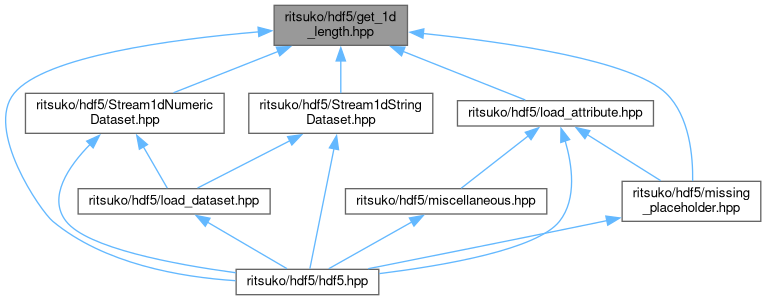
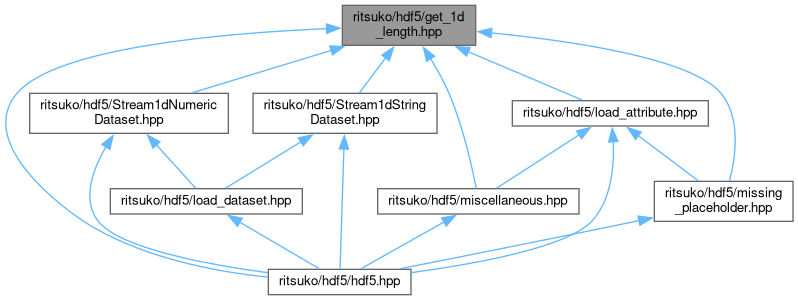
Deploying to gh-pages from @ ArtifactDB/ritsuko@3fe94009aa96d494673f2e40efb5e5fa2d311d32 🚀

diff --git a/docs/exceeds__limit_8hpp_source.html b/docs/exceeds__limit_8hpp_source.html
@@ -119,7 +119,7 @@ $(function() {
 <div class="line"><a id="l00073" name="l00073"></a><span class="lineno">   73</span>    <span class="keywordflow">return</span> <a class="code hl_function" href="namespaceritsuko_1_1hdf5.html#a6cd65a78811faa2894a672f5ce993949">exceeds_integer_limit</a>(handle.getIntType(), precision, is_signed);</div>
 <div class="line"><a id="l00074" name="l00074"></a><span class="lineno">   74</span>}</div>
 <div class="line"><a id="l00075" name="l00075"></a><span class="lineno">   75</span> </div>
-<div class="line"><a id="l00079" name="l00079"></a><span class="lineno">   79</span><span class="keyword">inline</span> <span class="keywordtype">bool</span> exceeds_float_limit_by_integer(<span class="keyword">const</span> H5::IntType itype, <span class="keywordtype">size_t</span> precision) {</div>
+<div class="line"><a id="l00079" name="l00079"></a><span class="lineno">   79</span><span class="keyword">inline</span> <span class="keywordtype">bool</span> exceeds_float_limit_by_integer(<span class="keyword">const</span> H5::IntType&amp; itype, <span class="keywordtype">size_t</span> precision) {</div>
 <div class="line"><a id="l00080" name="l00080"></a><span class="lineno">   80</span>    <span class="keywordflow">if</span> (precision &gt;= 64) {</div>
 <div class="line"><a id="l00081" name="l00081"></a><span class="lineno">   81</span>        <span class="keywordflow">return</span> <a class="code hl_function" href="namespaceritsuko_1_1hdf5.html#a6cd65a78811faa2894a672f5ce993949">exceeds_integer_limit</a>(itype, 52, <span class="keyword">true</span>);</div>
 <div class="line"><a id="l00082" name="l00082"></a><span class="lineno">   82</span>    } <span class="keywordflow">else</span> <span class="keywordflow">if</span> (precision &gt;= 32) {</div>
@@ -128,36 +128,54 @@ $(function() {
 <div class="line"><a id="l00085" name="l00085"></a><span class="lineno">   85</span>        <span class="keywordflow">return</span> <span class="keyword">true</span>;</div>
 <div class="line"><a id="l00086" name="l00086"></a><span class="lineno">   86</span>    }</div>
 <div class="line"><a id="l00087" name="l00087"></a><span class="lineno">   87</span>}</div>
-<div class="line"><a id="l00102" name="l00102"></a><span class="lineno"><a class="line" href="namespaceritsuko_1_1hdf5.html#acaeb27fa68cb7564cfdec29e4b6d6789">  102</a></span><span class="keyword">inline</span> <span class="keywordtype">bool</span> <a class="code hl_function" href="namespaceritsuko_1_1hdf5.html#acaeb27fa68cb7564cfdec29e4b6d6789">exceeds_float_limit</a>(<span class="keyword">const</span> H5::DataSet&amp; handle, <span class="keywordtype">size_t</span> precision) {</div>
-<div class="line"><a id="l00103" name="l00103"></a><span class="lineno">  103</span>    <span class="keyword">auto</span> tclass = handle.getTypeClass();</div>
-<div class="line"><a id="l00104" name="l00104"></a><span class="lineno">  104</span>    <span class="keywordflow">if</span> (tclass == H5T_INTEGER) {</div>
-<div class="line"><a id="l00105" name="l00105"></a><span class="lineno">  105</span>        <span class="keywordflow">return</span> exceeds_float_limit_by_integer(H5::IntType(handle), precision);</div>
-<div class="line"><a id="l00106" name="l00106"></a><span class="lineno">  106</span>    } <span class="keywordflow">else</span> <span class="keywordflow">if</span> (tclass == H5T_FLOAT) {</div>
-<div class="line"><a id="l00107" name="l00107"></a><span class="lineno">  107</span>        H5::FloatType ftype(handle);</div>
-<div class="line"><a id="l00108" name="l00108"></a><span class="lineno">  108</span>        <span class="keywordflow">return</span> ftype.getPrecision() &gt; precision;</div>
-<div class="line"><a id="l00109" name="l00109"></a><span class="lineno">  109</span>    } <span class="keywordflow">else</span> {</div>
-<div class="line"><a id="l00110" name="l00110"></a><span class="lineno">  110</span>        <span class="keywordflow">return</span> <span class="keyword">true</span>;</div>
-<div class="line"><a id="l00111" name="l00111"></a><span class="lineno">  111</span>    }</div>
-<div class="line"><a id="l00112" name="l00112"></a><span class="lineno">  112</span>}</div>
-<div class="line"><a id="l00113" name="l00113"></a><span class="lineno">  113</span> </div>
-<div class="line"><a id="l00122" name="l00122"></a><span class="lineno"><a class="line" href="namespaceritsuko_1_1hdf5.html#a81ca0022b59f5b2922d9899af3f3ec07">  122</a></span><span class="keyword">inline</span> <span class="keywordtype">bool</span> <a class="code hl_function" href="namespaceritsuko_1_1hdf5.html#acaeb27fa68cb7564cfdec29e4b6d6789">exceeds_float_limit</a>(<span class="keyword">const</span> H5::Attribute&amp; handle, <span class="keywordtype">size_t</span> precision) {</div>
-<div class="line"><a id="l00123" name="l00123"></a><span class="lineno">  123</span>    <span class="keyword">auto</span> tclass = handle.getTypeClass();</div>
-<div class="line"><a id="l00124" name="l00124"></a><span class="lineno">  124</span>    <span class="keywordflow">if</span> (tclass == H5T_INTEGER) {</div>
-<div class="line"><a id="l00125" name="l00125"></a><span class="lineno">  125</span>        <span class="keywordflow">return</span> exceeds_float_limit_by_integer(handle.getIntType(), precision);</div>
-<div class="line"><a id="l00126" name="l00126"></a><span class="lineno">  126</span>    } <span class="keywordflow">else</span> <span class="keywordflow">if</span> (tclass == H5T_FLOAT) {</div>
-<div class="line"><a id="l00127" name="l00127"></a><span class="lineno">  127</span>        <span class="keywordflow">return</span> handle.getFloatType().getPrecision() &gt; precision;</div>
-<div class="line"><a id="l00128" name="l00128"></a><span class="lineno">  128</span>    } <span class="keywordflow">else</span> {</div>
-<div class="line"><a id="l00129" name="l00129"></a><span class="lineno">  129</span>        <span class="keywordflow">return</span> <span class="keyword">true</span>;</div>
-<div class="line"><a id="l00130" name="l00130"></a><span class="lineno">  130</span>    }</div>
-<div class="line"><a id="l00131" name="l00131"></a><span class="lineno">  131</span>}</div>
-<div class="line"><a id="l00132" name="l00132"></a><span class="lineno">  132</span> </div>
-<div class="line"><a id="l00133" name="l00133"></a><span class="lineno">  133</span>}</div>
-<div class="line"><a id="l00134" name="l00134"></a><span class="lineno">  134</span> </div>
-<div class="line"><a id="l00135" name="l00135"></a><span class="lineno">  135</span>}</div>
-<div class="line"><a id="l00136" name="l00136"></a><span class="lineno">  136</span> </div>
-<div class="line"><a id="l00137" name="l00137"></a><span class="lineno">  137</span><span class="preprocessor">#endif</span></div>
+<div class="line"><a id="l00088" name="l00088"></a><span class="lineno">   88</span> </div>
+<div class="line"><a id="l00089" name="l00089"></a><span class="lineno">   89</span><span class="keyword">inline</span> <span class="keywordtype">bool</span> exceeds_float_limit_by_float(<span class="keyword">const</span> H5::FloatType&amp; ftype, <span class="keywordtype">size_t</span> precision) {</div>
+<div class="line"><a id="l00090" name="l00090"></a><span class="lineno">   90</span>    <span class="comment">// Only considering IEEE-compatible types here.</span></div>
+<div class="line"><a id="l00091" name="l00091"></a><span class="lineno">   91</span>    <span class="keywordflow">if</span> (precision &gt;= 64) {</div>
+<div class="line"><a id="l00092" name="l00092"></a><span class="lineno">   92</span>        <span class="keywordflow">return</span> !(</div>
+<div class="line"><a id="l00093" name="l00093"></a><span class="lineno">   93</span>            ftype == H5::PredType::IEEE_F64LE || </div>
+<div class="line"><a id="l00094" name="l00094"></a><span class="lineno">   94</span>            ftype == H5::PredType::IEEE_F64BE ||</div>
+<div class="line"><a id="l00095" name="l00095"></a><span class="lineno">   95</span>            ftype == H5::PredType::IEEE_F32LE || </div>
+<div class="line"><a id="l00096" name="l00096"></a><span class="lineno">   96</span>            ftype == H5::PredType::IEEE_F32BE</div>
+<div class="line"><a id="l00097" name="l00097"></a><span class="lineno">   97</span>        );</div>
+<div class="line"><a id="l00098" name="l00098"></a><span class="lineno">   98</span>    } <span class="keywordflow">else</span> <span class="keywordflow">if</span> (precision &gt;= 32) {</div>
+<div class="line"><a id="l00099" name="l00099"></a><span class="lineno">   99</span>        <span class="keywordflow">return</span> !(</div>
+<div class="line"><a id="l00100" name="l00100"></a><span class="lineno">  100</span>            ftype == H5::PredType::IEEE_F32LE || </div>
+<div class="line"><a id="l00101" name="l00101"></a><span class="lineno">  101</span>            ftype == H5::PredType::IEEE_F32BE</div>
+<div class="line"><a id="l00102" name="l00102"></a><span class="lineno">  102</span>        );</div>
+<div class="line"><a id="l00103" name="l00103"></a><span class="lineno">  103</span>    } <span class="keywordflow">else</span> {</div>
+<div class="line"><a id="l00104" name="l00104"></a><span class="lineno">  104</span>        <span class="keywordflow">return</span> <span class="keyword">true</span>;</div>
+<div class="line"><a id="l00105" name="l00105"></a><span class="lineno">  105</span>    }</div>
+<div class="line"><a id="l00106" name="l00106"></a><span class="lineno">  106</span>}</div>
+<div class="line"><a id="l00125" name="l00125"></a><span class="lineno"><a class="line" href="namespaceritsuko_1_1hdf5.html#acaeb27fa68cb7564cfdec29e4b6d6789">  125</a></span><span class="keyword">inline</span> <span class="keywordtype">bool</span> <a class="code hl_function" href="namespaceritsuko_1_1hdf5.html#acaeb27fa68cb7564cfdec29e4b6d6789">exceeds_float_limit</a>(<span class="keyword">const</span> H5::DataSet&amp; handle, <span class="keywordtype">size_t</span> precision) {</div>
+<div class="line"><a id="l00126" name="l00126"></a><span class="lineno">  126</span>    <span class="keyword">auto</span> tclass = handle.getTypeClass();</div>
+<div class="line"><a id="l00127" name="l00127"></a><span class="lineno">  127</span>    <span class="keywordflow">if</span> (tclass == H5T_INTEGER) {</div>
+<div class="line"><a id="l00128" name="l00128"></a><span class="lineno">  128</span>        <span class="keywordflow">return</span> exceeds_float_limit_by_integer(H5::IntType(handle), precision);</div>
+<div class="line"><a id="l00129" name="l00129"></a><span class="lineno">  129</span>    } <span class="keywordflow">else</span> <span class="keywordflow">if</span> (tclass == H5T_FLOAT) {</div>
+<div class="line"><a id="l00130" name="l00130"></a><span class="lineno">  130</span>        <span class="keywordflow">return</span> exceeds_float_limit_by_float(H5::FloatType(handle), precision);</div>
+<div class="line"><a id="l00131" name="l00131"></a><span class="lineno">  131</span>    } <span class="keywordflow">else</span> {</div>
+<div class="line"><a id="l00132" name="l00132"></a><span class="lineno">  132</span>        <span class="keywordflow">return</span> <span class="keyword">true</span>;</div>
+<div class="line"><a id="l00133" name="l00133"></a><span class="lineno">  133</span>    }</div>
+<div class="line"><a id="l00134" name="l00134"></a><span class="lineno">  134</span>}</div>
+<div class="line"><a id="l00135" name="l00135"></a><span class="lineno">  135</span> </div>
+<div class="line"><a id="l00145" name="l00145"></a><span class="lineno"><a class="line" href="namespaceritsuko_1_1hdf5.html#a81ca0022b59f5b2922d9899af3f3ec07">  145</a></span><span class="keyword">inline</span> <span class="keywordtype">bool</span> <a class="code hl_function" href="namespaceritsuko_1_1hdf5.html#acaeb27fa68cb7564cfdec29e4b6d6789">exceeds_float_limit</a>(<span class="keyword">const</span> H5::Attribute&amp; handle, <span class="keywordtype">size_t</span> precision) {</div>
+<div class="line"><a id="l00146" name="l00146"></a><span class="lineno">  146</span>    <span class="keyword">auto</span> tclass = handle.getTypeClass();</div>
+<div class="line"><a id="l00147" name="l00147"></a><span class="lineno">  147</span>    <span class="keywordflow">if</span> (tclass == H5T_INTEGER) {</div>
+<div class="line"><a id="l00148" name="l00148"></a><span class="lineno">  148</span>        <span class="keywordflow">return</span> exceeds_float_limit_by_integer(handle.getIntType(), precision);</div>
+<div class="line"><a id="l00149" name="l00149"></a><span class="lineno">  149</span>    } <span class="keywordflow">else</span> <span class="keywordflow">if</span> (tclass == H5T_FLOAT) {</div>
+<div class="line"><a id="l00150" name="l00150"></a><span class="lineno">  150</span>        <span class="keywordflow">return</span> exceeds_float_limit_by_float(handle.getFloatType(), precision);</div>
+<div class="line"><a id="l00151" name="l00151"></a><span class="lineno">  151</span>    } <span class="keywordflow">else</span> {</div>
+<div class="line"><a id="l00152" name="l00152"></a><span class="lineno">  152</span>        <span class="keywordflow">return</span> <span class="keyword">true</span>;</div>
+<div class="line"><a id="l00153" name="l00153"></a><span class="lineno">  153</span>    }</div>
+<div class="line"><a id="l00154" name="l00154"></a><span class="lineno">  154</span>}</div>
+<div class="line"><a id="l00155" name="l00155"></a><span class="lineno">  155</span> </div>
+<div class="line"><a id="l00156" name="l00156"></a><span class="lineno">  156</span>}</div>
+<div class="line"><a id="l00157" name="l00157"></a><span class="lineno">  157</span> </div>
+<div class="line"><a id="l00158" name="l00158"></a><span class="lineno">  158</span>}</div>
+<div class="line"><a id="l00159" name="l00159"></a><span class="lineno">  159</span> </div>
+<div class="line"><a id="l00160" name="l00160"></a><span class="lineno">  160</span><span class="preprocessor">#endif</span></div>
 <div class="ttc" id="anamespaceritsuko_1_1hdf5_html_a6cd65a78811faa2894a672f5ce993949"><div class="ttname"><a href="namespaceritsuko_1_1hdf5.html#a6cd65a78811faa2894a672f5ce993949">ritsuko::hdf5::exceeds_integer_limit</a></div><div class="ttdeci">bool exceeds_integer_limit(const H5::IntType &amp;itype, size_t precision, bool is_signed)</div><div class="ttdef"><b>Definition:</b> exceeds_limit.hpp:27</div></div>
-<div class="ttc" id="anamespaceritsuko_1_1hdf5_html_acaeb27fa68cb7564cfdec29e4b6d6789"><div class="ttname"><a href="namespaceritsuko_1_1hdf5.html#acaeb27fa68cb7564cfdec29e4b6d6789">ritsuko::hdf5::exceeds_float_limit</a></div><div class="ttdeci">bool exceeds_float_limit(const H5::DataSet &amp;handle, size_t precision)</div><div class="ttdef"><b>Definition:</b> exceeds_limit.hpp:102</div></div>
+<div class="ttc" id="anamespaceritsuko_1_1hdf5_html_acaeb27fa68cb7564cfdec29e4b6d6789"><div class="ttname"><a href="namespaceritsuko_1_1hdf5.html#acaeb27fa68cb7564cfdec29e4b6d6789">ritsuko::hdf5::exceeds_float_limit</a></div><div class="ttdeci">bool exceeds_float_limit(const H5::DataSet &amp;handle, size_t precision)</div><div class="ttdef"><b>Definition:</b> exceeds_limit.hpp:125</div></div>
 <div class="ttc" id="anamespaceritsuko_html"><div class="ttname"><a href="namespaceritsuko.html">ritsuko</a></div><div class="ttdoc">Assorted helper functions for parsing and validation.</div><div class="ttdef"><b>Definition:</b> choose_missing_placeholder.hpp:15</div></div>
 </div><!-- fragment --></div><!-- contents -->
 <!-- start footer part -->

diff --git a/docs/miscellaneous_8hpp_source.html b/docs/miscellaneous_8hpp_source.html
@@ -86,40 +86,45 @@ $(function() {
 <div class="line"><a id="l00006" name="l00006"></a><span class="lineno">    6</span> </div>
 <div class="line"><a id="l00007" name="l00007"></a><span class="lineno">    7</span><span class="preprocessor">#include &quot;<a class="code" href="open_8hpp.html">open.hpp</a>&quot;</span></div>
 <div class="line"><a id="l00008" name="l00008"></a><span class="lineno">    8</span><span class="preprocessor">#include &quot;<a class="code" href="load__attribute_8hpp.html">load_attribute.hpp</a>&quot;</span></div>
-<div class="line"><a id="l00009" name="l00009"></a><span class="lineno">    9</span> </div>
-<div class="line"><a id="l00015" name="l00015"></a><span class="lineno">   15</span><span class="keyword">namespace </span><a class="code hl_namespace" href="namespaceritsuko.html">ritsuko</a> {</div>
-<div class="line"><a id="l00016" name="l00016"></a><span class="lineno">   16</span> </div>
-<div class="line"><a id="l00017" name="l00017"></a><span class="lineno">   17</span><span class="keyword">namespace </span>hdf5 {</div>
+<div class="line"><a id="l00009" name="l00009"></a><span class="lineno">    9</span><span class="preprocessor">#include &quot;<a class="code" href="is__utf8__string_8hpp.html">is_utf8_string.hpp</a>&quot;</span></div>
+<div class="line"><a id="l00010" name="l00010"></a><span class="lineno">   10</span><span class="preprocessor">#include &quot;<a class="code" href="get__1d__length_8hpp.html">get_1d_length.hpp</a>&quot;</span></div>
+<div class="line"><a id="l00011" name="l00011"></a><span class="lineno">   11</span> </div>
+<div class="line"><a id="l00017" name="l00017"></a><span class="lineno">   17</span><span class="keyword">namespace </span><a class="code hl_namespace" href="namespaceritsuko.html">ritsuko</a> {</div>
 <div class="line"><a id="l00018" name="l00018"></a><span class="lineno">   18</span> </div>
-<div class="line"><a id="l00027" name="l00027"></a><span class="lineno">   27</span><span class="keyword">template</span>&lt;<span class="keyword">class</span> H5Object_&gt;</div>
-<div class="line"><a id="l00028" name="l00028"></a><span class="lineno"><a class="line" href="namespaceritsuko_1_1hdf5.html#a8cbc70f0b6aa640eb12e6663cdacd4fe">   28</a></span><span class="keyword">inline</span> H5::Attribute <a class="code hl_function" href="namespaceritsuko_1_1hdf5.html#a8cbc70f0b6aa640eb12e6663cdacd4fe">open_scalar_attribute</a>(<span class="keyword">const</span> H5Object_&amp; handle, <span class="keyword">const</span> <span class="keywordtype">char</span>* name) {</div>
-<div class="line"><a id="l00029" name="l00029"></a><span class="lineno">   29</span>    <span class="keyword">auto</span> attr = <a class="code hl_function" href="namespaceritsuko_1_1hdf5.html#a2562d2fa77b38f6ba2412f4ee3fce3b4">open_attribute</a>(handle, name);</div>
-<div class="line"><a id="l00030" name="l00030"></a><span class="lineno">   30</span>    <span class="keywordflow">if</span> (!<a class="code hl_function" href="namespaceritsuko_1_1hdf5.html#a5a84cbdad4bec1bd7d61f34a6a13db70">is_scalar</a>(attr)) {</div>
-<div class="line"><a id="l00031" name="l00031"></a><span class="lineno">   31</span>        <span class="keywordflow">throw</span> std::runtime_error(<span class="stringliteral">&quot;expected &#39;&quot;</span> + std::string(name) + <span class="stringliteral">&quot;&#39; attribute to be a scalar&quot;</span>);</div>
-<div class="line"><a id="l00032" name="l00032"></a><span class="lineno">   32</span>    }</div>
-<div class="line"><a id="l00033" name="l00033"></a><span class="lineno">   33</span>    <span class="keywordflow">return</span> attr;</div>
-<div class="line"><a id="l00034" name="l00034"></a><span class="lineno">   34</span>}</div>
-<div class="line"><a id="l00035" name="l00035"></a><span class="lineno">   35</span> </div>
-<div class="line"><a id="l00043" name="l00043"></a><span class="lineno">   43</span><span class="keyword">template</span>&lt;<span class="keyword">class</span> H5Object_&gt;</div>
-<div class="line"><a id="l00044" name="l00044"></a><span class="lineno"><a class="line" href="namespaceritsuko_1_1hdf5.html#afcb3d656e2411662328752690d008e87">   44</a></span>std::string <a class="code hl_function" href="namespaceritsuko_1_1hdf5.html#afcb3d656e2411662328752690d008e87">open_and_load_scalar_string_attribute</a>(<span class="keyword">const</span> H5Object_&amp; handle, <span class="keyword">const</span> <span class="keywordtype">char</span>* name) {</div>
-<div class="line"><a id="l00045" name="l00045"></a><span class="lineno">   45</span>    <span class="keyword">auto</span> attr = <a class="code hl_function" href="namespaceritsuko_1_1hdf5.html#a8cbc70f0b6aa640eb12e6663cdacd4fe">open_scalar_attribute</a>(handle, name);</div>
-<div class="line"><a id="l00046" name="l00046"></a><span class="lineno">   46</span>    <span class="keywordflow">if</span> (attr.getTypeClass() != H5T_STRING) {</div>
-<div class="line"><a id="l00047" name="l00047"></a><span class="lineno">   47</span>        <span class="keywordflow">throw</span> std::runtime_error(<span class="stringliteral">&quot;expected &#39;&quot;</span> + std::string(name) + <span class="stringliteral">&quot;&#39; attribute to be a string&quot;</span>);</div>
-<div class="line"><a id="l00048" name="l00048"></a><span class="lineno">   48</span>    }</div>
-<div class="line"><a id="l00049" name="l00049"></a><span class="lineno">   49</span>    <span class="keywordflow">return</span> <a class="code hl_function" href="namespaceritsuko_1_1hdf5.html#ae09b2aaf282ec0809b610528f4bf87b3">load_scalar_string_attribute</a>(attr);</div>
-<div class="line"><a id="l00050" name="l00050"></a><span class="lineno">   50</span>}</div>
-<div class="line"><a id="l00051" name="l00051"></a><span class="lineno">   51</span> </div>
+<div class="line"><a id="l00019" name="l00019"></a><span class="lineno">   19</span><span class="keyword">namespace </span>hdf5 {</div>
+<div class="line"><a id="l00020" name="l00020"></a><span class="lineno">   20</span> </div>
+<div class="line"><a id="l00029" name="l00029"></a><span class="lineno">   29</span><span class="keyword">template</span>&lt;<span class="keyword">class</span> H5Object_&gt;</div>
+<div class="line"><a id="l00030" name="l00030"></a><span class="lineno"><a class="line" href="namespaceritsuko_1_1hdf5.html#a8cbc70f0b6aa640eb12e6663cdacd4fe">   30</a></span><span class="keyword">inline</span> H5::Attribute <a class="code hl_function" href="namespaceritsuko_1_1hdf5.html#a8cbc70f0b6aa640eb12e6663cdacd4fe">open_scalar_attribute</a>(<span class="keyword">const</span> H5Object_&amp; handle, <span class="keyword">const</span> <span class="keywordtype">char</span>* name) {</div>
+<div class="line"><a id="l00031" name="l00031"></a><span class="lineno">   31</span>    <span class="keyword">auto</span> attr = <a class="code hl_function" href="namespaceritsuko_1_1hdf5.html#a2562d2fa77b38f6ba2412f4ee3fce3b4">open_attribute</a>(handle, name);</div>
+<div class="line"><a id="l00032" name="l00032"></a><span class="lineno">   32</span>    <span class="keywordflow">if</span> (!<a class="code hl_function" href="namespaceritsuko_1_1hdf5.html#a5a84cbdad4bec1bd7d61f34a6a13db70">is_scalar</a>(attr)) {</div>
+<div class="line"><a id="l00033" name="l00033"></a><span class="lineno">   33</span>        <span class="keywordflow">throw</span> std::runtime_error(<span class="stringliteral">&quot;expected &#39;&quot;</span> + std::string(name) + <span class="stringliteral">&quot;&#39; attribute to be a scalar&quot;</span>);</div>
+<div class="line"><a id="l00034" name="l00034"></a><span class="lineno">   34</span>    }</div>
+<div class="line"><a id="l00035" name="l00035"></a><span class="lineno">   35</span>    <span class="keywordflow">return</span> attr;</div>
+<div class="line"><a id="l00036" name="l00036"></a><span class="lineno">   36</span>}</div>
+<div class="line"><a id="l00037" name="l00037"></a><span class="lineno">   37</span> </div>
+<div class="line"><a id="l00045" name="l00045"></a><span class="lineno">   45</span><span class="keyword">template</span>&lt;<span class="keyword">class</span> H5Object_&gt;</div>
+<div class="line"><a id="l00046" name="l00046"></a><span class="lineno"><a class="line" href="namespaceritsuko_1_1hdf5.html#afcb3d656e2411662328752690d008e87">   46</a></span>std::string <a class="code hl_function" href="namespaceritsuko_1_1hdf5.html#afcb3d656e2411662328752690d008e87">open_and_load_scalar_string_attribute</a>(<span class="keyword">const</span> H5Object_&amp; handle, <span class="keyword">const</span> <span class="keywordtype">char</span>* name) {</div>
+<div class="line"><a id="l00047" name="l00047"></a><span class="lineno">   47</span>    <span class="keyword">auto</span> attr = <a class="code hl_function" href="namespaceritsuko_1_1hdf5.html#a8cbc70f0b6aa640eb12e6663cdacd4fe">open_scalar_attribute</a>(handle, name);</div>
+<div class="line"><a id="l00048" name="l00048"></a><span class="lineno">   48</span>    <span class="keywordflow">if</span> (!<a class="code hl_function" href="namespaceritsuko_1_1hdf5.html#a188b248f678ed8edd7564193e54fa44a">is_utf8_string</a>(attr)) {</div>
+<div class="line"><a id="l00049" name="l00049"></a><span class="lineno">   49</span>        <span class="keywordflow">throw</span> std::runtime_error(<span class="stringliteral">&quot;expected &#39;&quot;</span> + std::string(name) + <span class="stringliteral">&quot;&#39; attribute to be a string with a UTF-8 compatible encoding&quot;</span>);</div>
+<div class="line"><a id="l00050" name="l00050"></a><span class="lineno">   50</span>    }</div>
+<div class="line"><a id="l00051" name="l00051"></a><span class="lineno">   51</span>    <span class="keywordflow">return</span> <a class="code hl_function" href="namespaceritsuko_1_1hdf5.html#ae09b2aaf282ec0809b610528f4bf87b3">load_scalar_string_attribute</a>(attr);</div>
 <div class="line"><a id="l00052" name="l00052"></a><span class="lineno">   52</span>}</div>
 <div class="line"><a id="l00053" name="l00053"></a><span class="lineno">   53</span> </div>
 <div class="line"><a id="l00054" name="l00054"></a><span class="lineno">   54</span>}</div>
 <div class="line"><a id="l00055" name="l00055"></a><span class="lineno">   55</span> </div>
-<div class="line"><a id="l00056" name="l00056"></a><span class="lineno">   56</span><span class="preprocessor">#endif</span></div>
+<div class="line"><a id="l00056" name="l00056"></a><span class="lineno">   56</span>}</div>
+<div class="line"><a id="l00057" name="l00057"></a><span class="lineno">   57</span> </div>
+<div class="line"><a id="l00058" name="l00058"></a><span class="lineno">   58</span><span class="preprocessor">#endif</span></div>
+<div class="ttc" id="aget__1d__length_8hpp_html"><div class="ttname"><a href="get__1d__length_8hpp.html">get_1d_length.hpp</a></div><div class="ttdoc">Get the length of a 1-dimensional HDF5 dataset.</div></div>
+<div class="ttc" id="ais__utf8__string_8hpp_html"><div class="ttname"><a href="is__utf8__string_8hpp.html">is_utf8_string.hpp</a></div><div class="ttdoc">Check if a string datatype uses a UTF-8 encoding.</div></div>
 <div class="ttc" id="aload__attribute_8hpp_html"><div class="ttname"><a href="load__attribute_8hpp.html">load_attribute.hpp</a></div><div class="ttdoc">Load HDF5 attributes.</div></div>
+<div class="ttc" id="anamespaceritsuko_1_1hdf5_html_a188b248f678ed8edd7564193e54fa44a"><div class="ttname"><a href="namespaceritsuko_1_1hdf5.html#a188b248f678ed8edd7564193e54fa44a">ritsuko::hdf5::is_utf8_string</a></div><div class="ttdeci">bool is_utf8_string(const H5::StrType &amp;stype)</div><div class="ttdef"><b>Definition:</b> is_utf8_string.hpp:26</div></div>
 <div class="ttc" id="anamespaceritsuko_1_1hdf5_html_a2562d2fa77b38f6ba2412f4ee3fce3b4"><div class="ttname"><a href="namespaceritsuko_1_1hdf5.html#a2562d2fa77b38f6ba2412f4ee3fce3b4">ritsuko::hdf5::open_attribute</a></div><div class="ttdeci">H5::Attribute open_attribute(const Object_ &amp;handle, const char *name)</div><div class="ttdef"><b>Definition:</b> open.hpp:88</div></div>
 <div class="ttc" id="anamespaceritsuko_1_1hdf5_html_a5a84cbdad4bec1bd7d61f34a6a13db70"><div class="ttname"><a href="namespaceritsuko_1_1hdf5.html#a5a84cbdad4bec1bd7d61f34a6a13db70">ritsuko::hdf5::is_scalar</a></div><div class="ttdeci">bool is_scalar(const H5::DataSpace &amp;space)</div><div class="ttdef"><b>Definition:</b> get_1d_length.hpp:70</div></div>
-<div class="ttc" id="anamespaceritsuko_1_1hdf5_html_a8cbc70f0b6aa640eb12e6663cdacd4fe"><div class="ttname"><a href="namespaceritsuko_1_1hdf5.html#a8cbc70f0b6aa640eb12e6663cdacd4fe">ritsuko::hdf5::open_scalar_attribute</a></div><div class="ttdeci">H5::Attribute open_scalar_attribute(const H5Object_ &amp;handle, const char *name)</div><div class="ttdef"><b>Definition:</b> miscellaneous.hpp:28</div></div>
+<div class="ttc" id="anamespaceritsuko_1_1hdf5_html_a8cbc70f0b6aa640eb12e6663cdacd4fe"><div class="ttname"><a href="namespaceritsuko_1_1hdf5.html#a8cbc70f0b6aa640eb12e6663cdacd4fe">ritsuko::hdf5::open_scalar_attribute</a></div><div class="ttdeci">H5::Attribute open_scalar_attribute(const H5Object_ &amp;handle, const char *name)</div><div class="ttdef"><b>Definition:</b> miscellaneous.hpp:30</div></div>
 <div class="ttc" id="anamespaceritsuko_1_1hdf5_html_ae09b2aaf282ec0809b610528f4bf87b3"><div class="ttname"><a href="namespaceritsuko_1_1hdf5.html#ae09b2aaf282ec0809b610528f4bf87b3">ritsuko::hdf5::load_scalar_string_attribute</a></div><div class="ttdeci">std::string load_scalar_string_attribute(const H5::Attribute &amp;attr)</div><div class="ttdef"><b>Definition:</b> load_attribute.hpp:27</div></div>
-<div class="ttc" id="anamespaceritsuko_1_1hdf5_html_afcb3d656e2411662328752690d008e87"><div class="ttname"><a href="namespaceritsuko_1_1hdf5.html#afcb3d656e2411662328752690d008e87">ritsuko::hdf5::open_and_load_scalar_string_attribute</a></div><div class="ttdeci">std::string open_and_load_scalar_string_attribute(const H5Object_ &amp;handle, const char *name)</div><div class="ttdef"><b>Definition:</b> miscellaneous.hpp:44</div></div>
+<div class="ttc" id="anamespaceritsuko_1_1hdf5_html_afcb3d656e2411662328752690d008e87"><div class="ttname"><a href="namespaceritsuko_1_1hdf5.html#afcb3d656e2411662328752690d008e87">ritsuko::hdf5::open_and_load_scalar_string_attribute</a></div><div class="ttdeci">std::string open_and_load_scalar_string_attribute(const H5Object_ &amp;handle, const char *name)</div><div class="ttdef"><b>Definition:</b> miscellaneous.hpp:46</div></div>
 <div class="ttc" id="anamespaceritsuko_html"><div class="ttname"><a href="namespaceritsuko.html">ritsuko</a></div><div class="ttdoc">Assorted helper functions for parsing and validation.</div><div class="ttdef"><b>Definition:</b> choose_missing_placeholder.hpp:15</div></div>
 <div class="ttc" id="aopen_8hpp_html"><div class="ttname"><a href="open_8hpp.html">open.hpp</a></div><div class="ttdoc">Convenience functions to safely open HDF5 handles.</div></div>
 </div><!-- fragment --></div><!-- contents -->

diff --git a/docs/hdf5_8hpp.html b/docs/hdf5_8hpp.html
@@ -102,29 +102,29 @@ Include dependency graph for hdf5.hpp:</div>
 <div class="dyncontent">
 <div class="center"><img src="hdf5_8hpp__incl.png" border="0" usemap="#aritsuko_2hdf5_2hdf5_8hpp" alt=""/></div>
 <map name="aritsuko_2hdf5_2hdf5_8hpp" id="aritsuko_2hdf5_2hdf5_8hpp">
-<area shape="rect" title="Umbrella header for ritsuko&#39;s HDF5 utilities." alt="" coords="1040,5,1183,31"/>
-<area shape="rect" href="Stream1dNumericDataset_8hpp.html" title="Stream a numeric 1D HDF5 dataset into memory." alt="" coords="696,152,892,177"/>
-<area shape="rect" href="pick__1d__block__size_8hpp.html" title="Pick a block size for a 1&#45;dimensional HDF5 dataset." alt="" coords="955,225,1113,251"/>
-<area shape="rect" href="get__1d__length_8hpp.html" title="Get the length of a 1&#45;dimensional HDF5 dataset." alt="" coords="701,225,828,251"/>
-<area shape="rect" href="get__name_8hpp.html" title="Get the name of a HDF5 object." alt="" coords="1763,225,1865,251"/>
-<area shape="rect" href="as__numeric__datatype_8hpp.html" title="Choose a HDF5 datatype." alt="" coords="405,225,575,251"/>
-<area shape="rect" href="Stream1dStringDataset_8hpp.html" title="Stream a numeric 1D HDF5 dataset into memory." alt="" coords="1018,152,1199,177"/>
-<area shape="rect" href="exceeds__limit_8hpp.html" title="Check for larger&#45;than&#45;expected types in HDF5 datasets." alt="" coords="154,225,279,251"/>
-<area shape="rect" href="is__utf8__string_8hpp.html" title="Check if a string datatype uses a UTF&#45;8 encoding." alt="" coords="5,225,129,251"/>
-<area shape="rect" href="load__attribute_8hpp.html" title="Load HDF5 attributes." alt="" coords="1376,152,1500,177"/>
-<area shape="rect" href="load__dataset_8hpp.html" title="Helper functions to load datasets." alt="" coords="1003,79,1123,104"/>
-<area shape="rect" href="missing__placeholder_8hpp.html" title="Get the missing placeholder attribute." alt="" coords="1236,79,1400,104"/>
-<area shape="rect" href="miscellaneous_8hpp.html" title="Miscellaneous functions for user convenience." alt="" coords="1907,79,2036,104"/>
-<area shape="rect" href="open_8hpp.html" title="Convenience functions to safely open HDF5 handles." alt="" coords="1941,225,2015,251"/>
-<area shape="rect" href="validate__string_8hpp.html" title="Helper functions to validate strings." alt="" coords="1525,152,1655,177"/>
-<area shape="rect" title=" " alt="" coords="1057,299,1129,324"/>
-<area shape="rect" title=" " alt="" coords="1485,299,1543,324"/>
-<area shape="rect" title=" " alt="" coords="725,299,804,324"/>
-<area shape="rect" title=" " alt="" coords="2059,299,2113,324"/>
-<area shape="rect" title=" " alt="" coords="109,299,191,324"/>
-<area shape="rect" title=" " alt="" coords="378,299,439,324"/>
-<area shape="rect" title=" " alt="" coords="1392,225,1484,251"/>
-<area shape="rect" title=" " alt="" coords="1938,299,2018,324"/>
+<area shape="rect" title="Umbrella header for ritsuko&#39;s HDF5 utilities." alt="" coords="1306,5,1449,31"/>
+<area shape="rect" href="Stream1dNumericDataset_8hpp.html" title="Stream a numeric 1D HDF5 dataset into memory." alt="" coords="1017,152,1213,177"/>
+<area shape="rect" href="pick__1d__block__size_8hpp.html" title="Pick a block size for a 1&#45;dimensional HDF5 dataset." alt="" coords="561,225,719,251"/>
+<area shape="rect" href="get__1d__length_8hpp.html" title="Get the length of a 1&#45;dimensional HDF5 dataset." alt="" coords="1294,225,1421,251"/>
+<area shape="rect" href="get__name_8hpp.html" title="Get the name of a HDF5 object." alt="" coords="1115,225,1218,251"/>
+<area shape="rect" href="as__numeric__datatype_8hpp.html" title="Choose a HDF5 datatype." alt="" coords="1649,225,1818,251"/>
+<area shape="rect" href="Stream1dStringDataset_8hpp.html" title="Stream a numeric 1D HDF5 dataset into memory." alt="" coords="659,152,840,177"/>
+<area shape="rect" href="exceeds__limit_8hpp.html" title="Check for larger&#45;than&#45;expected types in HDF5 datasets." alt="" coords="5,225,131,251"/>
+<area shape="rect" href="is__utf8__string_8hpp.html" title="Check if a string datatype uses a UTF&#45;8 encoding." alt="" coords="2145,225,2269,251"/>
+<area shape="rect" href="load__attribute_8hpp.html" title="Load HDF5 attributes." alt="" coords="1542,152,1666,177"/>
+<area shape="rect" href="load__dataset_8hpp.html" title="Helper functions to load datasets." alt="" coords="893,79,1013,104"/>
+<area shape="rect" href="missing__placeholder_8hpp.html" title="Get the missing placeholder attribute." alt="" coords="1522,79,1686,104"/>
+<area shape="rect" href="miscellaneous_8hpp.html" title="Miscellaneous functions for user convenience." alt="" coords="1894,79,2023,104"/>
+<area shape="rect" href="open_8hpp.html" title="Convenience functions to safely open HDF5 handles." alt="" coords="2045,225,2120,251"/>
+<area shape="rect" href="validate__string_8hpp.html" title="Helper functions to validate strings." alt="" coords="429,152,560,177"/>
+<area shape="rect" title=" " alt="" coords="1271,299,1343,324"/>
+<area shape="rect" title=" " alt="" coords="745,299,804,324"/>
+<area shape="rect" title=" " alt="" coords="331,299,410,324"/>
+<area shape="rect" title=" " alt="" coords="1533,299,1587,324"/>
+<area shape="rect" title=" " alt="" coords="1732,299,1815,324"/>
+<area shape="rect" title=" " alt="" coords="1879,299,1940,324"/>
+<area shape="rect" title=" " alt="" coords="846,225,938,251"/>
+<area shape="rect" title=" " alt="" coords="2043,299,2123,324"/>
 </map>
 </div>
 </div>

diff --git a/docs/miscellaneous_8hpp.html b/docs/miscellaneous_8hpp.html
@@ -88,24 +88,27 @@ $(function() {
 <code>#include &quot;H5Cpp.h&quot;</code><br />
 <code>#include &quot;<a class="el" href="open_8hpp_source.html">open.hpp</a>&quot;</code><br />
 <code>#include &quot;<a class="el" href="load__attribute_8hpp_source.html">load_attribute.hpp</a>&quot;</code><br />
+<code>#include &quot;<a class="el" href="is__utf8__string_8hpp_source.html">is_utf8_string.hpp</a>&quot;</code><br />
+<code>#include &quot;<a class="el" href="get__1d__length_8hpp_source.html">get_1d_length.hpp</a>&quot;</code><br />
 </div><div class="textblock"><div class="dynheader">
 Include dependency graph for miscellaneous.hpp:</div>
 <div class="dyncontent">
 <div class="center"><img src="miscellaneous_8hpp__incl.png" border="0" usemap="#aritsuko_2hdf5_2miscellaneous_8hpp" alt=""/></div>
 <map name="aritsuko_2hdf5_2miscellaneous_8hpp" id="aritsuko_2hdf5_2miscellaneous_8hpp">
-<area shape="rect" title="Miscellaneous functions for user convenience." alt="" coords="475,5,677,31"/>
-<area shape="rect" title=" " alt="" coords="657,152,711,177"/>
-<area shape="rect" title=" " alt="" coords="432,225,504,251"/>
-<area shape="rect" href="open_8hpp.html" title="Convenience functions to safely open HDF5 handles." alt="" coords="739,79,813,104"/>
-<area shape="rect" href="load__attribute_8hpp.html" title="Load HDF5 attributes." alt="" coords="406,79,530,104"/>
-<area shape="rect" title=" " alt="" coords="736,152,816,177"/>
-<area shape="rect" title=" " alt="" coords="697,225,775,251"/>
-<area shape="rect" title=" " alt="" coords="255,152,313,177"/>
-<area shape="rect" href="get__1d__length_8hpp.html" title="Get the length of a 1&#45;dimensional HDF5 dataset." alt="" coords="506,152,633,177"/>
-<area shape="rect" href="as__numeric__datatype_8hpp.html" title="Choose a HDF5 datatype." alt="" coords="10,152,179,177"/>
-<area shape="rect" title=" " alt="" coords="338,152,430,177"/>
-<area shape="rect" title=" " alt="" coords="5,225,88,251"/>
-<area shape="rect" title=" " alt="" coords="112,225,173,251"/>
+<area shape="rect" title="Miscellaneous functions for user convenience." alt="" coords="289,5,490,31"/>
+<area shape="rect" title=" " alt="" coords="171,152,226,177"/>
+<area shape="rect" title=" " alt="" coords="404,225,476,251"/>
+<area shape="rect" href="open_8hpp.html" title="Convenience functions to safely open HDF5 handles." alt="" coords="69,79,144,104"/>
+<area shape="rect" href="load__attribute_8hpp.html" title="Load HDF5 attributes." alt="" coords="453,79,577,104"/>
+<area shape="rect" href="get__1d__length_8hpp.html" title="Get the length of a 1&#45;dimensional HDF5 dataset." alt="" coords="250,152,377,177"/>
+<area shape="rect" href="is__utf8__string_8hpp.html" title="Check if a string datatype uses a UTF&#45;8 encoding." alt="" coords="897,152,1021,177"/>
+<area shape="rect" title=" " alt="" coords="67,152,147,177"/>
+<area shape="rect" title=" " alt="" coords="107,225,186,251"/>
+<area shape="rect" title=" " alt="" coords="813,152,872,177"/>
+<area shape="rect" href="as__numeric__datatype_8hpp.html" title="Choose a HDF5 datatype." alt="" coords="503,152,673,177"/>
+<area shape="rect" title=" " alt="" coords="697,152,789,177"/>
+<area shape="rect" title=" " alt="" coords="615,225,697,251"/>
+<area shape="rect" title=" " alt="" coords="859,225,920,251"/>
 </map>
 </div>
 </div><div class="textblock"><div class="dynheader">

diff --git a/docs/namespaceritsuko_1_1hdf5.html b/docs/namespaceritsuko_1_1hdf5.html
@@ -316,11 +316,11 @@ template&lt;typename Type_ &gt; </div>
 <dl class="params"><dt>Parameters</dt><dd>
   <table class="params">
     <tr><td class="paramname">handle</td><td>Handle for a HDF5 attribute. </td></tr>
-    <tr><td class="paramname">precision</td><td>Number of bits in the limiting integer type, assuming 2's complement.</td></tr>
+    <tr><td class="paramname">precision</td><td>Number of bits in the limiting float type.</td></tr>
   </table>
   </dd>
 </dl>
-<dl class="section return"><dt>Returns</dt><dd>Whether the dataset uses a datatype than cannot be represented by the limiting integer type. </dd></dl>
+<dl class="section return"><dt>Returns</dt><dd>Whether the attribute uses a datatype than cannot be represented by the limiting integer type. <code>true</code> is also returned for non-numeric attributes. </dd></dl>
 
 </div>
 </div>
@@ -358,10 +358,11 @@ template&lt;typename Type_ &gt; </div>
 </table>
 </div><div class="memdoc">
 <p >Check if a HDF5 datatype could hold values beyond the range of a limiting float type. This is used by validators to ensure that a dataset can be represented in memory by the limiting type.</p>
+<p >Note that the limiting float type is assumed to be IEEE754-compliant. If the HDF5 datatype is not also IEEE754-compliant, it will be considered out-of-range regardless of its precision. This seems unlikely, though, as all CPU-specific predefined float types in later HDF5 versions are aliases of the IEEE types.</p>
 <dl class="params"><dt>Parameters</dt><dd>
   <table class="params">
     <tr><td class="paramname">handle</td><td>Handle for a HDF5 dataset. </td></tr>
-    <tr><td class="paramname">precision</td><td>Number of bits in the limiting float type, assuming IEEE754 floats.</td></tr>
+    <tr><td class="paramname">precision</td><td>Number of bits in the limiting float type.</td></tr>
   </table>
   </dd>
 </dl>
@@ -417,7 +418,7 @@ template&lt;typename Type_ &gt; </div>
   </table>
   </dd>
 </dl>
-<dl class="section return"><dt>Returns</dt><dd>Whether the dataset uses a datatype than cannot be represented by the limiting integer type. </dd></dl>
+<dl class="section return"><dt>Returns</dt><dd>Whether the attribute uses a datatype than cannot be represented by the limiting integer type. </dd></dl>
 
 </div>
 </div>
@@ -521,7 +522,7 @@ template&lt;typename Type_ &gt; </div>
   </table>
   </dd>
 </dl>
-<dl class="section return"><dt>Returns</dt><dd>Whether the dataset uses a datatype than cannot be represented by the limiting integer type. <code>true</code> is also returned for non-integer datasets. </dd></dl>
+<dl class="section return"><dt>Returns</dt><dd>Whether the datatype cannot be represented by the limiting integer type. <code>true</code> is also returned for non-integer datasets. </dd></dl>
 
 </div>
 </div>

diff --git a/docs/get__1d__length_8hpp.html b/docs/get__1d__length_8hpp.html
@@ -101,14 +101,14 @@ This graph shows which files directly or indirectly include this file:</div>
 <div class="dyncontent">
 <div class="center"><img src="get__1d__length_8hpp__dep__incl.png" border="0" usemap="#aritsuko_2hdf5_2get__1d__length_8hppdep" alt=""/></div>
 <map name="aritsuko_2hdf5_2get__1d__length_8hppdep" id="aritsuko_2hdf5_2get__1d__length_8hppdep">
-<area shape="rect" title="Get the length of a 1&#45;dimensional HDF5 dataset." alt="" coords="274,5,407,45"/>
-<area shape="rect" href="Stream1dNumericDataset_8hpp.html" title="Stream a numeric 1D HDF5 dataset into memory." alt="" coords="25,93,224,133"/>
-<area shape="rect" href="hdf5_8hpp.html" title="Umbrella header for ritsuko&#39;s HDF5 utilities." alt="" coords="236,269,379,295"/>
-<area shape="rect" href="Stream1dStringDataset_8hpp.html" title="Stream a numeric 1D HDF5 dataset into memory." alt="" coords="249,93,433,133"/>
-<area shape="rect" href="load__attribute_8hpp.html" title="Load HDF5 attributes." alt="" coords="457,101,653,126"/>
-<area shape="rect" href="missing__placeholder_8hpp.html" title="Get the missing placeholder attribute." alt="" coords="622,181,761,221"/>
-<area shape="rect" href="load__dataset_8hpp.html" title="Helper functions to load datasets." alt="" coords="78,189,270,214"/>
-<area shape="rect" href="miscellaneous_8hpp.html" title="Miscellaneous functions for user convenience." alt="" coords="345,189,547,214"/>
+<area shape="rect" title="Get the length of a 1&#45;dimensional HDF5 dataset." alt="" coords="342,5,476,45"/>
+<area shape="rect" href="Stream1dNumericDataset_8hpp.html" title="Stream a numeric 1D HDF5 dataset into memory." alt="" coords="30,93,228,133"/>
+<area shape="rect" href="hdf5_8hpp.html" title="Umbrella header for ritsuko&#39;s HDF5 utilities." alt="" coords="268,269,411,295"/>
+<area shape="rect" href="Stream1dStringDataset_8hpp.html" title="Stream a numeric 1D HDF5 dataset into memory." alt="" coords="253,93,437,133"/>
+<area shape="rect" href="load__attribute_8hpp.html" title="Load HDF5 attributes." alt="" coords="512,101,708,126"/>
+<area shape="rect" href="miscellaneous_8hpp.html" title="Miscellaneous functions for user convenience." alt="" coords="378,189,579,214"/>
+<area shape="rect" href="missing__placeholder_8hpp.html" title="Get the missing placeholder attribute." alt="" coords="654,181,793,221"/>
+<area shape="rect" href="load__dataset_8hpp.html" title="Helper functions to load datasets." alt="" coords="110,189,302,214"/>
 </map>
 </div>
 </div>

diff --git a/docs/is__utf8__string_8hpp.html b/docs/is__utf8__string_8hpp.html
@@ -104,7 +104,8 @@ This graph shows which files directly or indirectly include this file:</div>
 <div class="center"><img src="is__utf8__string_8hpp__dep__incl.png" border="0" usemap="#aritsuko_2hdf5_2is__utf8__string_8hppdep" alt=""/></div>
 <map name="aritsuko_2hdf5_2is__utf8__string_8hppdep" id="aritsuko_2hdf5_2is__utf8__string_8hppdep">
 <area shape="rect" title="Check if a string datatype uses a UTF&#45;8 encoding." alt="" coords="10,5,143,45"/>
-<area shape="rect" href="hdf5_8hpp.html" title="Umbrella header for ritsuko&#39;s HDF5 utilities." alt="" coords="5,93,148,119"/>
+<area shape="rect" href="hdf5_8hpp.html" title="Umbrella header for ritsuko&#39;s HDF5 utilities." alt="" coords="5,167,148,192"/>
+<area shape="rect" href="miscellaneous_8hpp.html" title="Miscellaneous functions for user convenience." alt="" coords="45,93,247,119"/>
 </map>
 </div>
 </div>
